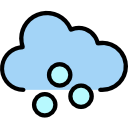
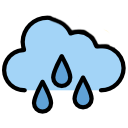
add rain mode

Changed region(s): [[0.0, 0.0625, 1.0, 0.9375]]

diff --git a/js/script.js b/js/script.js
@@ -342,6 +342,8 @@ const showCurrentImg = (appendBlock, weatherInfo) => {
       imgCurImg.setAttribute("src", "img/weatheriCO/sun.png");
    } else if (weatherInfo == "Clouds") {
       imgCurImg.setAttribute("src", "img/weatheriCO/cloud.png");
+   } else if (weatherInfo == "Rain") {
+      imgCurImg.setAttribute("src", "img/weatheriCO/rain.png");
    } else {
       //####
    }
@@ -378,7 +380,9 @@ const showImg = (appendBlock, setWeather, time) => {
             imga.setAttribute("src", "img/weatheriCO/cloudNight.png")
             : imga.setAttribute("src", "img/weatheriCO/cloud.png");
          break;
-      // case #####:
+      case "Rain":
+         imga.setAttribute("src", "img/weatheriCO/rain.png");
+         break;
    }
 
    divImg.append(imga);
